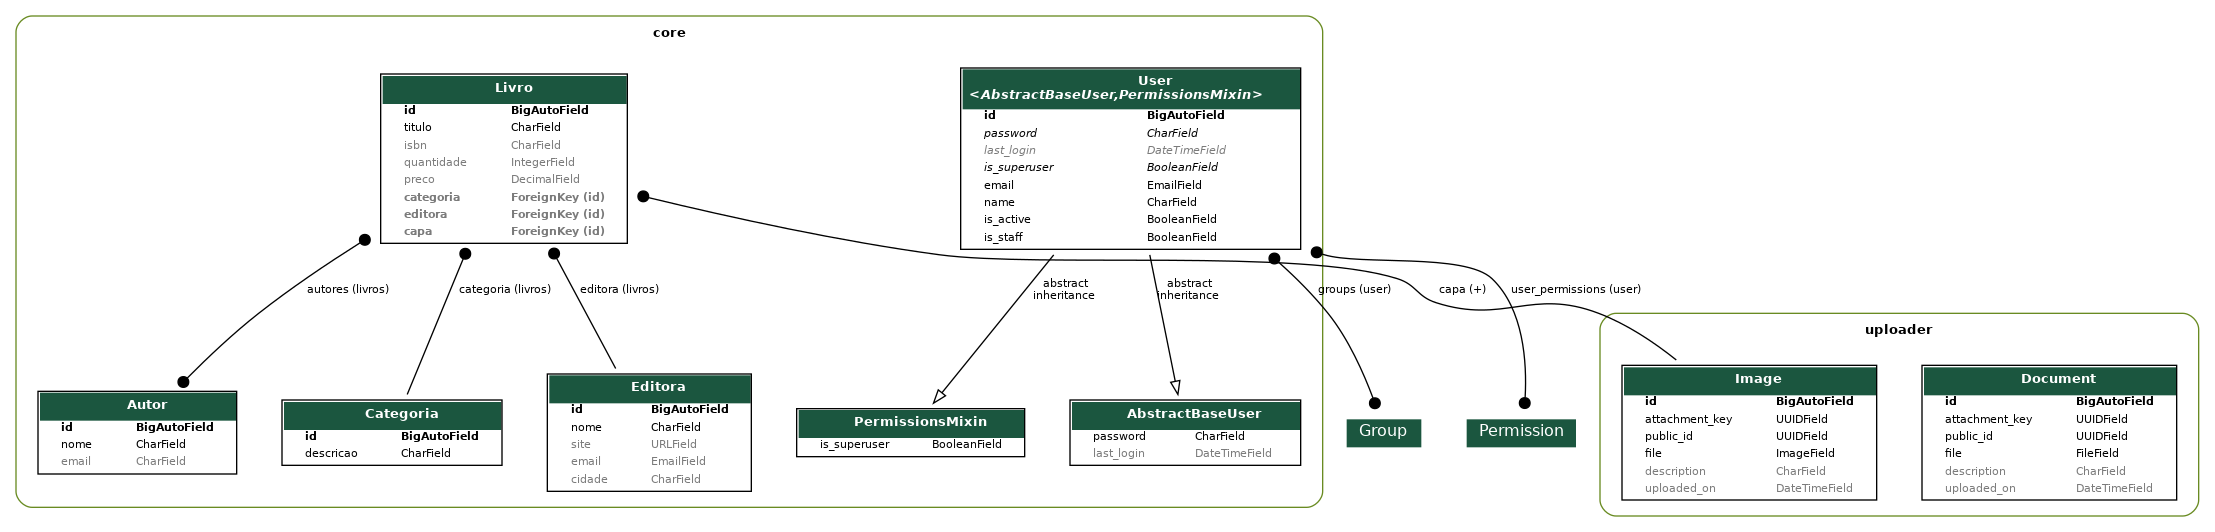
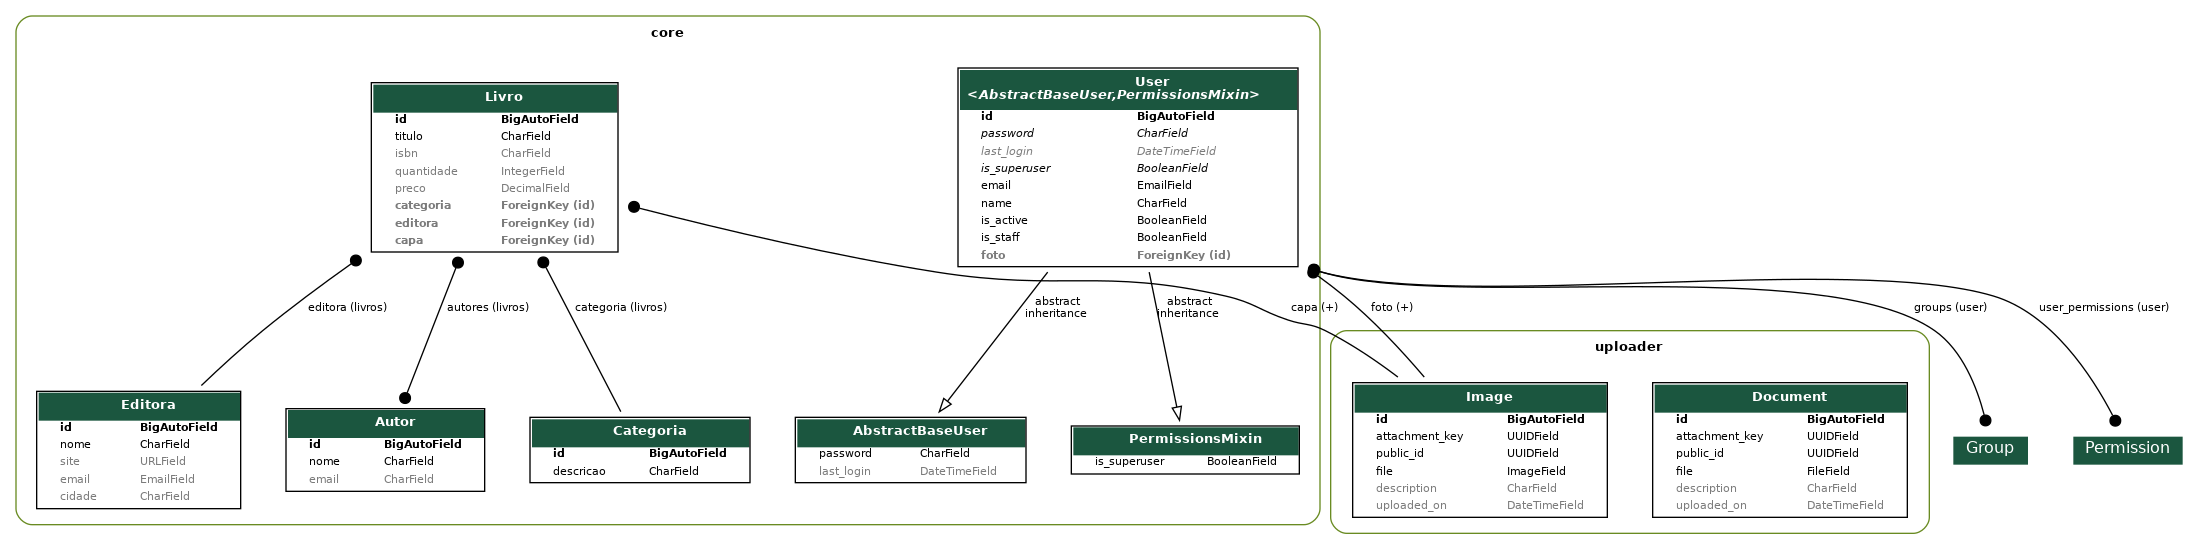
Inclusão da foto de perfil no usuário

diff --git a/core/migrations/0017_user_foto.py b/core/migrations/0017_user_foto.py
@@ -1,0 +1,27 @@
+# Generated by Django 5.1 on 2024-08-26 17:57
+
+import django.db.models.deletion
+from django.db import migrations, models
+
+
+class Migration(migrations.Migration):
+
+    dependencies = [
+        ("core", "0016_alter_autor_email"),
+        ("uploader", "0001_initial"),
+    ]
+
+    operations = [
+        migrations.AddField(
+            model_name="user",
+            name="foto",
+            field=models.ForeignKey(
+                blank=True,
+                default=None,
+                null=True,
+                on_delete=django.db.models.deletion.SET_NULL,
+                related_name="+",
+                to="uploader.image",
+            ),
+        ),
+    ]

diff --git a/core/serializers/user.py b/core/serializers/user.py
@@ -1,9 +1,23 @@
-from rest_framework.serializers import ModelSerializer
+from rest_framework.serializers import ModelSerializer, SlugRelatedField
 
 from core.models import User
+from uploader.models import Image
+from uploader.serializers import ImageSerializer
 
 
 class UserSerializer(ModelSerializer):
+    foto_attachment_key = SlugRelatedField(
+        source="foto",
+        queryset=Image.objects.all(),
+        slug_field="attachment_key",
+        required=False,
+        write_only=True,
+    )
+    foto = ImageSerializer(
+        required=False,
+        read_only=True
+    )
+
     class Meta:
         model = User
         fields = "__all__"

diff --git a/core/models/user.py b/core/models/user.py
@@ -7,6 +7,7 @@ from django.contrib.auth.models import (
     PermissionsMixin,
 )
 from django.db import models
+from uploader.models import Image
 
 
 class UserManager(BaseUserManager):
@@ -40,7 +41,15 @@ class User(AbstractBaseUser, PermissionsMixin):
     name = models.CharField(max_length=255)
     is_active = models.BooleanField(default=True)
     is_staff = models.BooleanField(default=False)
-
+    foto = models.ForeignKey(
+        Image,
+        related_name="+",
+        on_delete=models.SET_NULL,
+        null=True,
+        blank=True,
+        default=None,
+    )    
+    
     objects = UserManager()
 
     USERNAME_FIELD = "email"

diff --git a/core/views/categoria.py b/core/views/categoria.py
@@ -2,7 +2,9 @@ from rest_framework.viewsets import ModelViewSet
 
 from core.models import Categoria
 from core.serializers import CategoriaSerializer
+from rest_framework.permissions import IsAuthenticated
 
 class CategoriaViewSet(ModelViewSet):
     queryset = Categoria.objects.all()
     serializer_class = CategoriaSerializer
+    permission_classes = [IsAuthenticated]

diff --git a/core/admin.py b/core/admin.py
@@ -51,7 +51,6 @@ class UserAdmin(BaseUserAdmin):
         ),
     )
 
-...
 @admin.register(Autor)
 class AutorAdmin(admin.ModelAdmin):
     list_display = ('nome', 'email')
